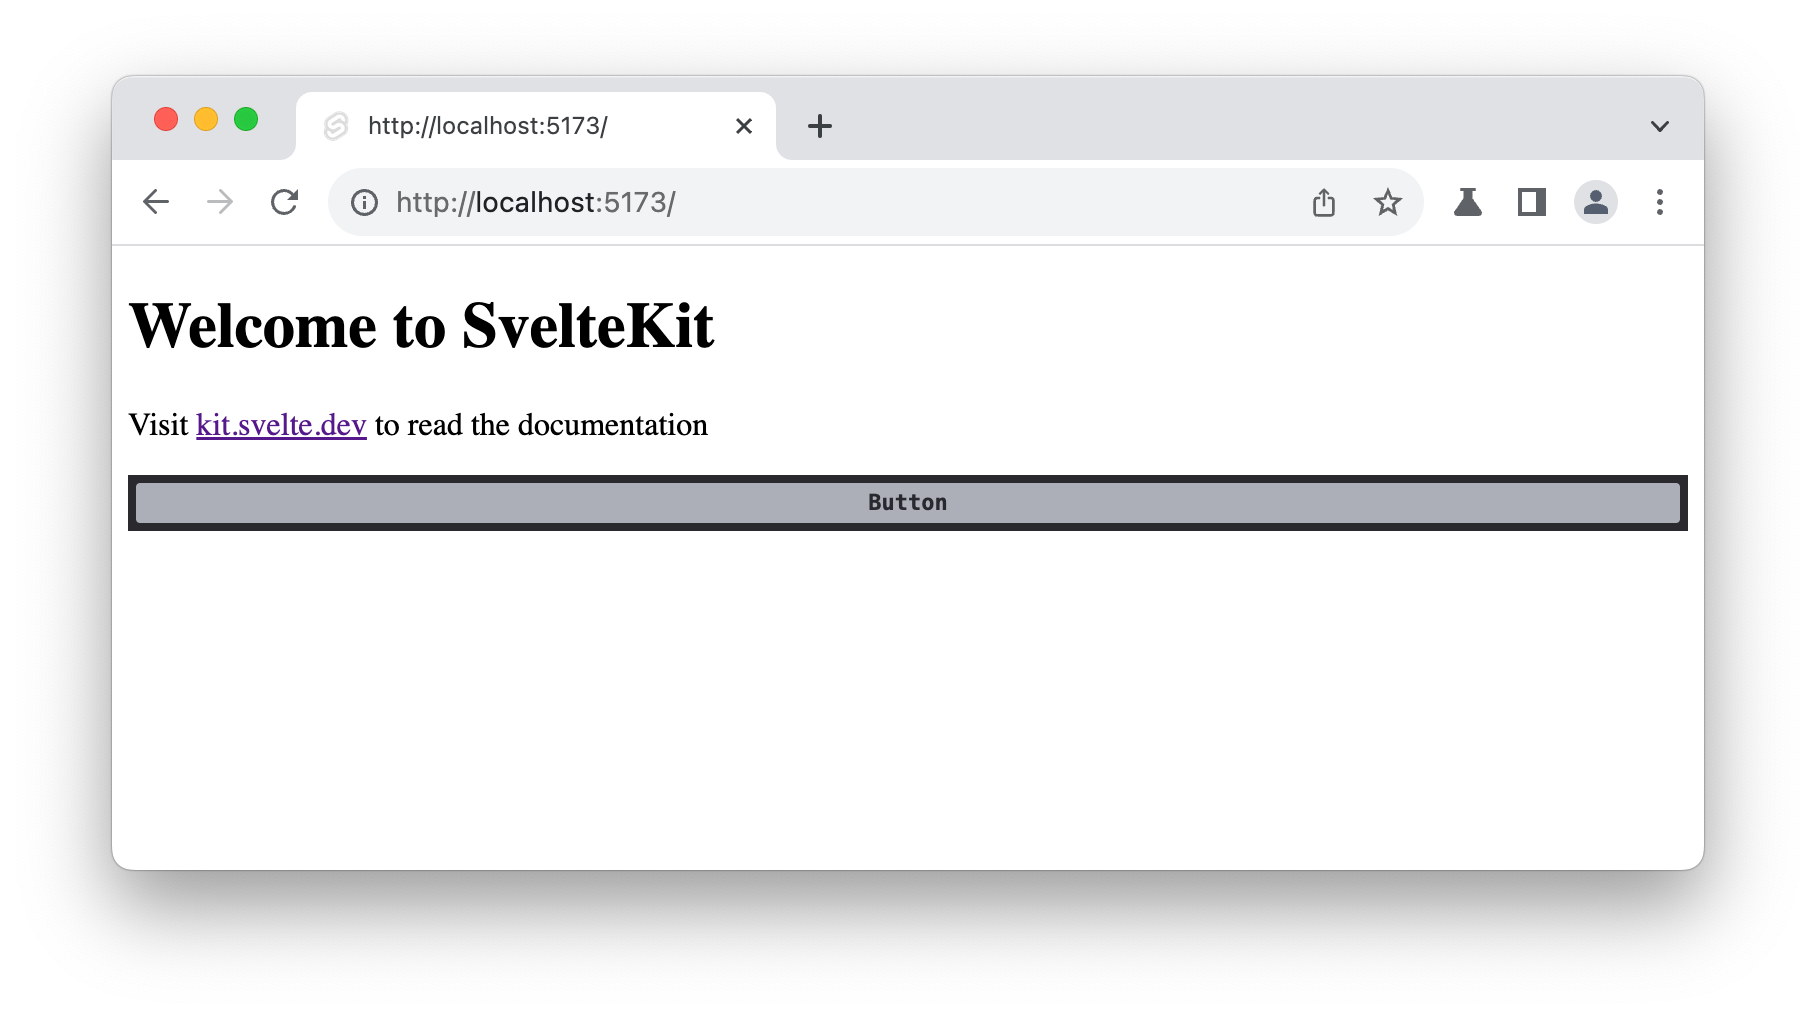
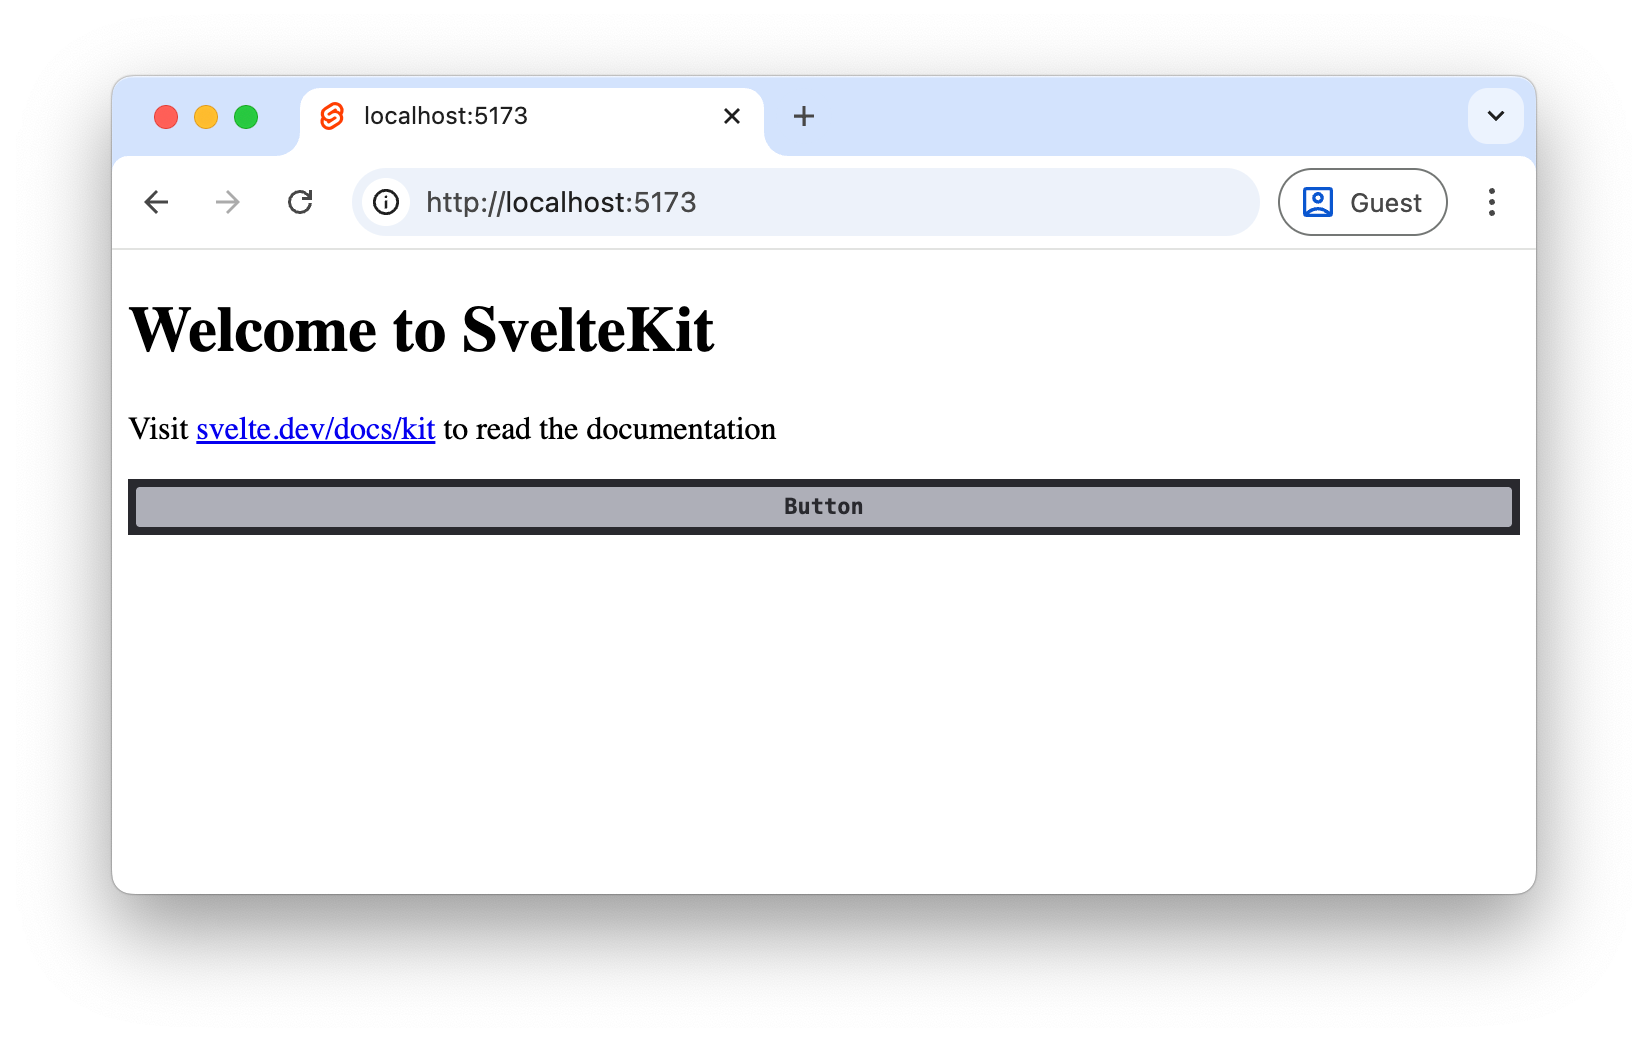
Docs: Update getting started sv flags and screenshot.

Changed region(s): [[0.0619, 0.0609, 0.9593, 0.8527]]

diff --git a/docs/src/content/docs/docs/getting-started.md b/docs/src/content/docs/docs/getting-started.md
@@ -36,7 +36,8 @@ If you're starting completely from scratch and just want to test out the _Svelte
 Of course you can use _Svelte Tweakpane UI_ anywhere Svelte works, including island frameworks like [Astro](https://astro.build) or [Eleventy](https://is-land.11ty.dev) (albeit with a [caveat or two](/svelte-tweakpane-ui/docs#island-framework-compatibility)).
 
 ```sh
-npx sv create --no-add-ons --types ts --template minimal svelte-tweakpane-sandbox
+npx sv create --no-add-ons --types ts --template minimal --install npm svelte-tweakpane-sandbox
+cd svelte-tweakpane-sandbox
 ```
 
 ---
